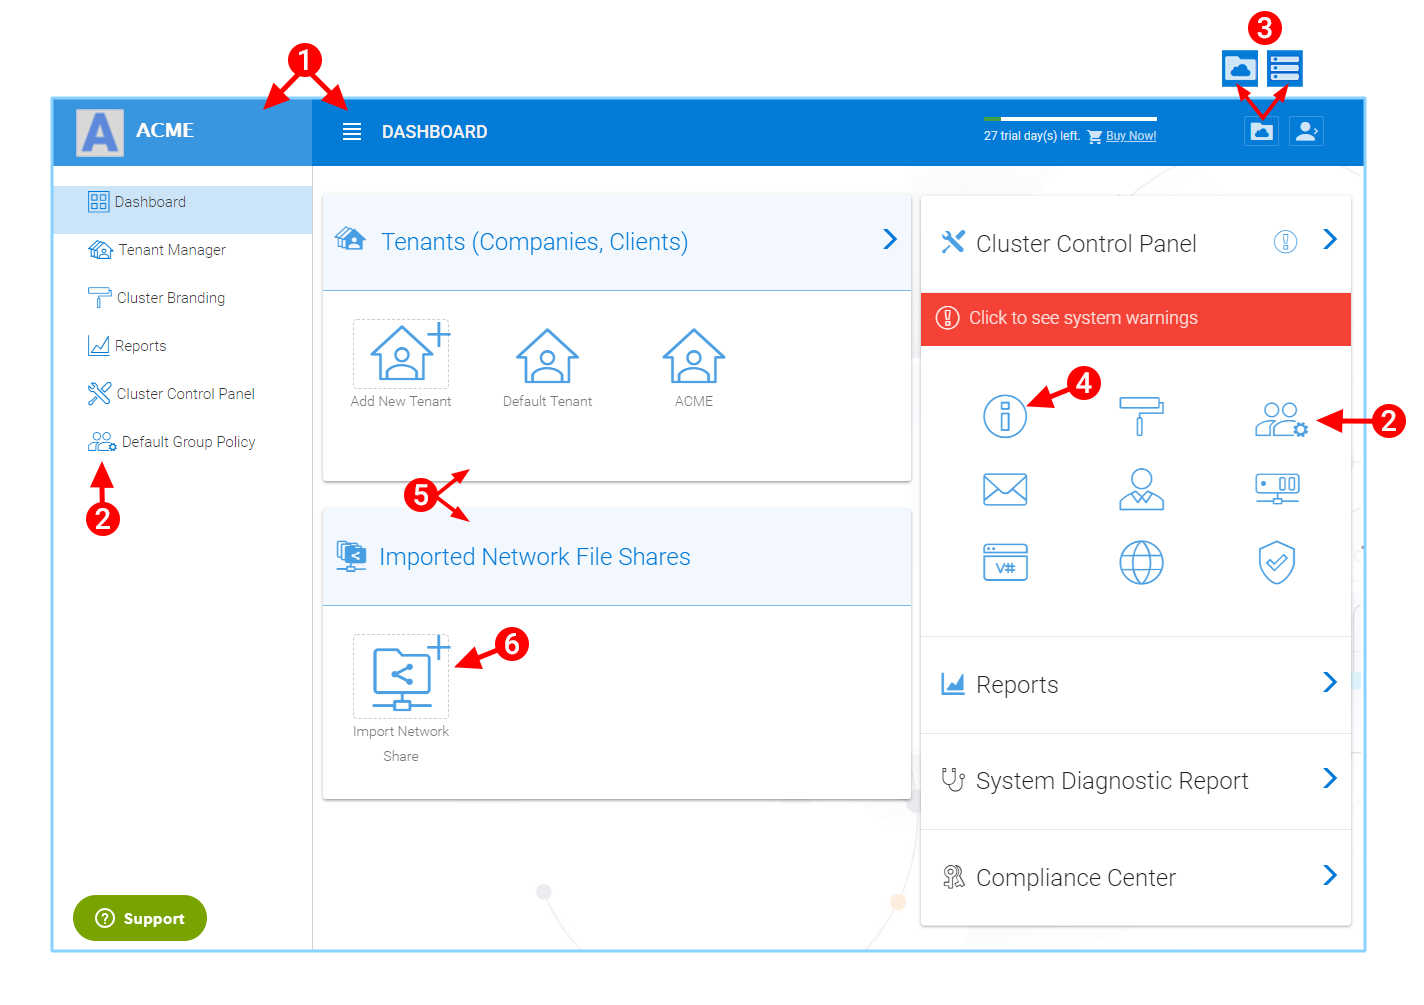
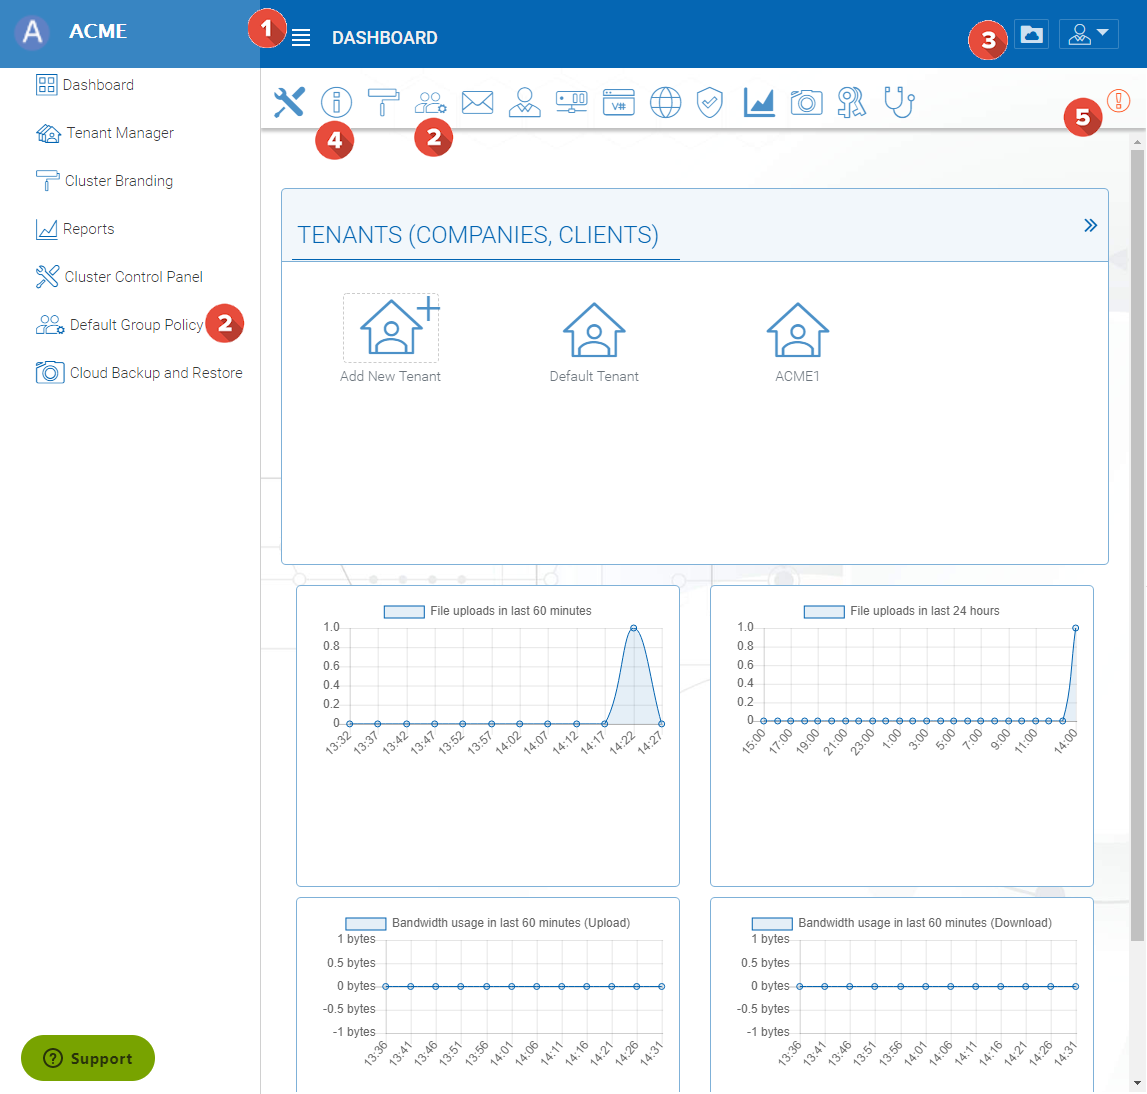
update admin guide to match 10.6

diff --git a/admin/source/conf.py b/admin/source/conf.py
@@ -50,10 +50,10 @@ master_doc = 'contents'
 
 # General information about the project.
 project = 'Administration Guide'
-copyright = '2019, Corporate Shields, LLC.'
-author = 'Corporate Shields'
+copyright = '2019, Gladinet, Inc.'
+author = 'gladinet'
 
-prodname = 'NUBIA Drive'
+prodname = 'CentreStack'
 
 rst_epilog = '.. |prodname| replace:: %s' % prodname
 
@@ -62,9 +62,9 @@ rst_epilog = '.. |prodname| replace:: %s' % prodname
 # built documents.
 #
 # The short X.Y version.
-version = '9.6.5473'
+version = '10.6.6800'
 # The full version, including alpha/beta/rc tags.
-release = '9.6.5473.41339'
+release = '10.6.6800.44120'
 
 # The language for content autogenerated by Sphinx. Refer to documentation
 # for a list of supported languages.

diff --git a/admin/source/chapter03.rst b/admin/source/chapter03.rst
@@ -19,7 +19,7 @@ To access your Cluster Administration features, log in to the Web Portal on the 
 
 .. note::
 
-On the bottom of the Login screen, there is version information, which will be useful to see which version you have installed. 
+    On the bottom of the Login screen, there is version information, which will be useful to see which version you have installed. 
 
     
 The following graphic describes the various icons and components of the Administrator Dashboard and its sub sections. Please refer to it as you read this guide to determine how to access various features.
@@ -29,7 +29,7 @@ The following graphic describes the various icons and components of the Administ
     
 **CLUSTER MANAGER DASHBOARD**
 
-After logging in, you will see the Cluster Manager Dashboard. The small “hamburger” ☰ menu icon **(1)** in the top left corner of this portal page will toggle the reveal of the left-side menu. Some of the features can be accessed several ways; for instance, you can see the **Default Group Policy** icon **(2)** in both the left-side menu and the Cluster Control Panel on the right side of the Dashboard by clicking the folder icon. **(3)** In the top right of the interface you can toggle between the File Browser and Cluster Manager views. 
+After logging in, you will see the Cluster Manager Dashboard. The small “hamburger” ☰ menu icon **(1)** in the top left corner of this portal page will toggle the reveal of the left-side menu. Some of the features can be accessed several ways; for instance, you can see the **Default Group Policy** icon **(2)** in both the left-side menu and the Cluster Control Panel on the right side (or top side) of the Dashboard by clicking the folder icon. **(3)** In the top right of the interface you can toggle between the File Browser and Cluster Manager views. 
 
 The **File Browser** (My Files) view of the interface gives you access to your shared and unshared folders. This is also where you can create folders and upload files and folders for access. 
 The Cluster Manager (aka., Dashboard) allows you to manage Tenants, Cluster Branding, Reports, Cluster Control Panel and Group Policies. 
@@ -46,57 +46,15 @@ In the center of the Dashboard screen, you can access your Tenants (Companies, C
 
     At a high level, the |prodname| web browser management interface allows you to manage clients (Tenants) and the connections to their file servers within a local network or a remote location.
 
-**************************
-**4.2 Importing File Shares**
-**************************
 
-To give your Tenants access to files in your local area network or from remote locations, click the Import Network Share icon **(6)**. This will take you to the Import File Share screen. 
-
-.. figure:: _static/image_s4_2_4.png
-    :align: center
-    
-**IMPORT FILE SHARE**
-
-As shown in the above image, click the dropdown list to designate which Tenant will own the file share you are accessing. This action naturally requires that you have already created at least one Tenant, unless you wish to use the Default Tenant.
-
-The first step is to decide which tenant to add the File Server Share to. If a File Server belongs to a specific Tenant but the Tenant hasn’t been created yet, you will need to create the tenant first and then proceed to import File Server Network Shares for that Tenant.
-
-.. attention::
-
-    File Servers are always at a Tenant Scope and belong to a specific Tenant. Different File Servers can belong to different Tenants.
-    
-    Users from a specific Tenant can collaborate on Team Folders, which usually have a one-to-one relationship to File Server network shares.
-    
-    The |prodname| can enable Secure Internet/Cloud Access to both File Servers in the Local Area Network and File Servers from Remote sites.
-
-
-.. note::
-
-    Q: Why import a File Server Network Share?
-    
-    A: This allows you to leverage the existing file security permissions and make it available
-    for remote and mobile access through the Cloud/Internet.
-
-
-After you pick the Tenant, choose a File Server from the local area network (LAN), or from a remote location.
-
-.. figure:: _static/image_s4_3_0.png
-    :align: center
-    
-    TENANT DASHBOARD
-
-Since the steps here are very similar to the Tenant Administration’s Team Folder Management, please reference the Tenant Admin Team Folder section for adding File Server Network Shares to a particular Tenant.
-
-.. warning::
-
-    ``Cluster Server Farm`` > ``Cluster Worker Node``
-    
-    If it is the first time you are installing the |prodname|, you may be seeing the message “External DNS has not been configured for this worker node. Some functionality may not work properly. Config Now”. 
-    
-    .. figure:: _static/image_s4_3_1.png
-        :align: center
         
 **EXTERNAL DNS WARNING**
+
+At the top left corner of the cluster dashboard (5), if you see a warning icon, it is the external dns warning indicating the external dns name is not 
+setup yet.
+
+.. figure:: _static/image_s4_2_2.png
+    :align: center
     
 External DNS (External URL) is a very important property. It is used in directing how outside remote clients connect to the Cluster Server. It is also used in various email templates. If this property is not properly configured, the email template may be using IP address or NETBIOS name as the URL link.
     
@@ -115,8 +73,7 @@ To configure this setting, you must have a DNS name and SSL certificate setup; t
 ``Cluster Manager`` > ``Tenant Manager``
 
 
-..
-::
+.. note::
 
     A tenant is usually mapped to a client of yours, a company or a division of a company.
 
@@ -143,11 +100,11 @@ When a Tenant outgrows their allocation of storage space or needs to move to a d
     
 .. tip:: 
     
-When changing a storage location for a Tenant; you typically manually copy the folder to the new location then re-configure the default storage location.
+    When changing a storage location for a Tenant; you typically manually copy the folder to the new location then re-configure the default storage location.
     
 .. warning:: 
     
-If you want to change the tenant's default storage location, make sure you copy tenant's file AS-IS from the source folder to its destination folder before you change the storage location here.
+    If you want to change the tenant's default storage location, make sure you copy tenant's file AS-IS from the source folder to its destination folder before you change the storage location here.
 
 **Delete Tenant** 
     
@@ -159,8 +116,7 @@ By clicking the “Manage Tenant” **(2)** option (see above image), the Cluste
 4.3.1 Tenant Management within Cluster Administration
 ^^^^^^^^^^^^^^^^^^^^^^^^^^^^^^^^^^^^^^^^^^^^^^^^^^^^^^
 
-.. 
-::
+.. note::
 
      At a high level, the Cluster Administrator and Tenant Manager have almost identical controls for the Tenants within their scope; however, the Tenant Manager settings will always take precedence and override Cluster Administrator settings. Tenant Managers can give permission for Cluster Administrator to manage their tenants by enabling this option in ``Group Policy`` > ``Common Settings`` > ``Security``.
      
@@ -1951,9 +1907,9 @@ Please reference the ``Group Policy`` in the tenant administrator section for fu
 
 
 
-**************
+*******************************
 4.11 Language Settings
-**************
+*******************************
 
 We have automated translation and provided the resource files that you can use to localize the web portal and clients in the language  of your choice. If there are strings that not translated yet in the language you want, just go ahead and select the string and put in the translated string in the window for the language selected.
 

diff --git a/admin/source/index.rst b/admin/source/index.rst
@@ -11,4 +11,4 @@ Welcome to the |prodname| Administration Guide. This guide describes administrat
   The |prodname| includes a client application for Windows File Server, which is named "Server Agent". This document is about the |prodname| itself, not about the "Server Agent".
 
 .. attention::
-  This admin guide is written for |prodname| version ``9.6.5473``
+  This admin guide is written for |prodname| version ``10.6.6800``
